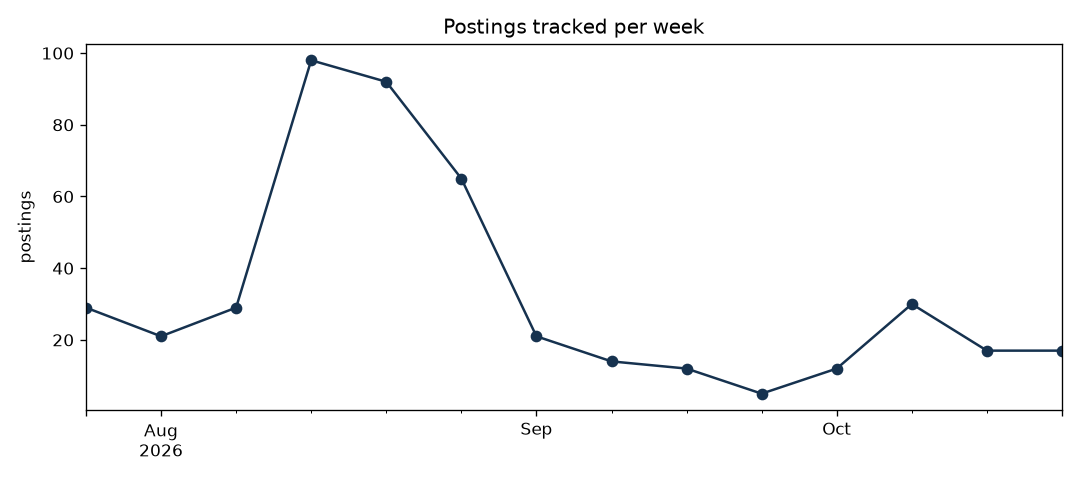
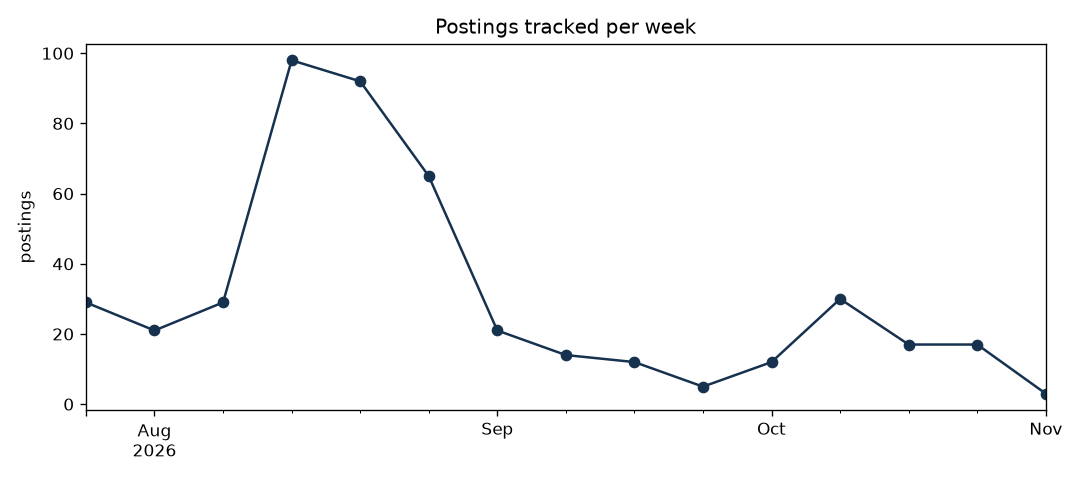
Daily data update

diff --git a/README.md b/README.md
@@ -13,12 +13,12 @@ reporting end to end.
 ## Dashboard
 
 <!-- dashboard:start -->
-*Last updated: 2026-11-02 22:09 UTC*
+*Last updated: 2026-11-03 19:57 UTC*
 
 | | |
 |---|---|
-| Postings tracked | 462 |
-| Companies | 382 |
+| Postings tracked | 465 |
+| Companies | 385 |
 | New since last run | 3 |
 | Data/ML-related share | 31% |
 
